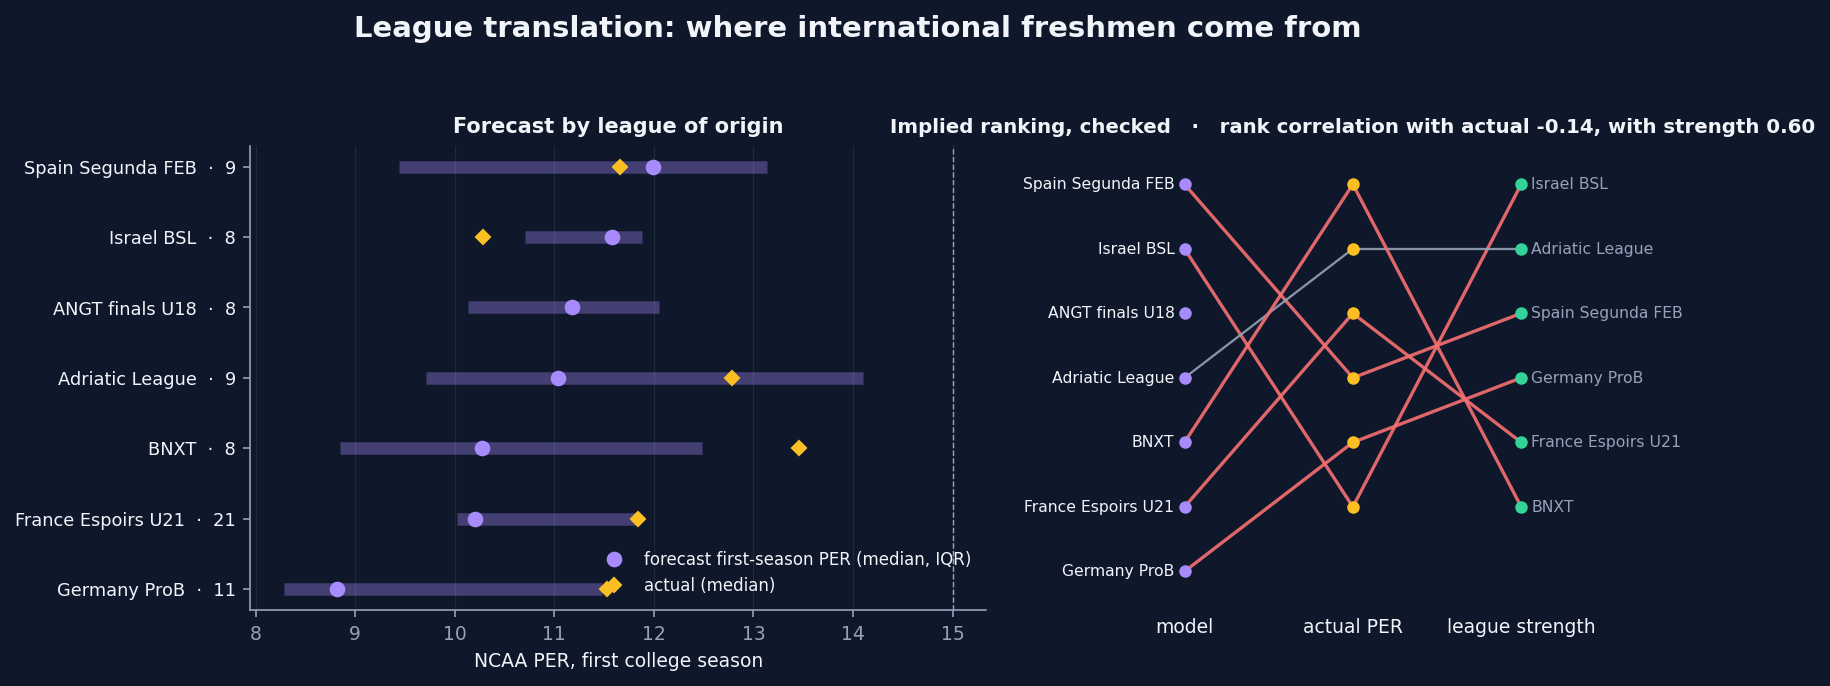
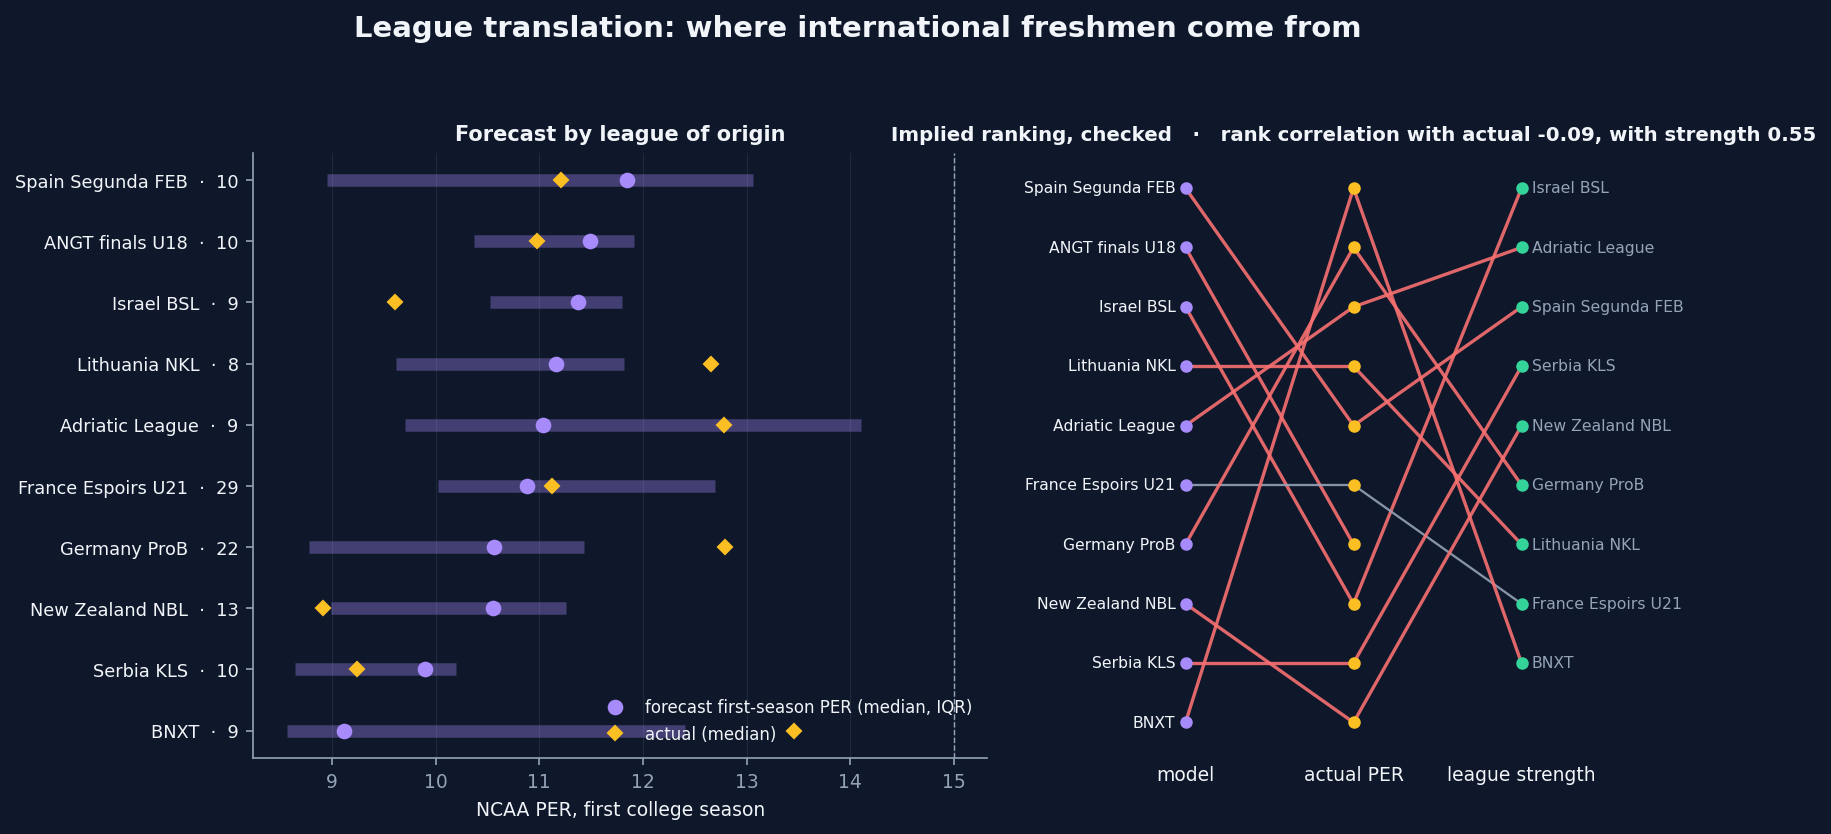
update assets

diff --git a/tests/test_capacity_options.py b/tests/test_capacity_options.py
@@ -1,0 +1,123 @@
+"""D-070: capacity and training options — width, direction FiLM, the future head, game dropout — leave the registered
+architecture unchanged by default and work when switched on."""
+import unittest
+
+import numpy as np
+import pandas as pd
+import torch
+
+from fpp.model import features as F
+from fpp.model.distributions import SeasonParameters
+from fpp.model.tower import ARCHITECTURE_DEFAULTS, ReferenceTower
+from tests.test_pool_and_arms import _pool_games
+
+
+def _batch(n_fields=39, n_static=12, k=3):
+    games = _pool_games(n_players=2, n_games=6)
+    store = F.GameStore.from_frame(games)
+    cutoff = float(store.date.max()) + 1.0
+    norm = F.Normalizer.fit(store, np.arange(len(games)), cutoff, np.zeros((2, n_static)))
+    rows = store.rows(1)
+    ch = F.build_channel(store, rows, cutoff_days=cutoff, target_days=cutoff, normalizer=norm)
+    t_v, t_m = F.time_basis(-1.0, 18.0, 19.0)
+    targets = {"games": 3, "starts": 1, "minutes": 60.0, "counts": np.zeros(13, dtype=np.int64), "overtime": 0.0, "overtime_known": True, "schedule": 5}
+    exs = []
+    for i in range(k):
+        tg = dict(targets)
+        if i == 0:
+            tg["future"], tg["future_known"] = 0.7, True
+        exs.append(F.Example(f"u{i}", "-" if i % 2 == 0 else "+", (), ch, F.Channel.empty(n_fields), np.zeros(n_static, np.float32),
+                             np.zeros(n_static, bool), np.zeros(6, np.int32), t_v, t_m, tg))
+    return store, exs, F.collate(exs)
+
+
+class CapacityTests(unittest.TestCase):
+    def test_defaults_reproduce_the_registered_parameter_count(self):
+        store, exs, batch = _batch()
+        vocab = [len(store.vocab[c]) for c in F.CATEGORICAL]
+        tower = ReferenceTower(vocab, [2] * 6, SeasonParameters())
+        self.assertEqual(tower.architecture, ARCHITECTURE_DEFAULTS)
+        n = sum(p.numel() for p in tower.parameters())
+        wide = ReferenceTower(vocab, [2] * 6, SeasonParameters(), width=64, hidden=128)
+        self.assertGreater(sum(p.numel() for p in wide.parameters()), 3 * n)
+        with torch.no_grad():
+            out = wide(batch)
+        self.assertEqual(out["rates"].shape[0], 3)
+        self.assertNotIn("future", out)
+
+    def test_direction_film_is_identity_at_init_and_future_head_outputs(self):
+        store, exs, batch = _batch()
+        vocab = [len(store.vocab[c]) for c in F.CATEGORICAL]
+        torch.manual_seed(0)
+        plain = ReferenceTower(vocab, [2] * 6, SeasonParameters())
+        torch.manual_seed(0)
+        film = ReferenceTower(vocab, [2] * 6, SeasonParameters(), direction_film=True, future_head=True)
+        # Same random init for the shared modules; FiLM starts at zero, so the heads agree before training.
+        plain_sd = plain.state_dict()
+        film.load_state_dict({**film.state_dict(), **{k: v for k, v in plain_sd.items()}}, strict=False)
+        with torch.no_grad():
+            a, b = plain(batch), film(batch)
+        torch.testing.assert_close(a["rates"], b["rates"])
+        self.assertEqual(b["future"].shape, (3,))
+        self.assertTrue(batch["future_known"][0].item() and not batch["future_known"][1].item())
+        self.assertAlmostEqual(float(batch["future"][0]), 0.7, places=6)
+        self.assertTrue(torch.isnan(batch["future"][1]))
+        # After a FiLM perturbation the two directions differ while the forward example changes too (the shift is per direction).
+        with torch.no_grad():
+            film.translator.film.weight[1, :10].fill_(0.5)
+            c = film(batch)
+        self.assertFalse(torch.allclose(a["rates"][1], c["rates"][1]))      # reconstruction example (direction +1) moved
+        torch.testing.assert_close(a["rates"][0], c["rates"][0])            # forward example unchanged
+
+    def test_drop_games_keeps_at_least_one_row_and_recomputes_evidence(self):
+        store, exs, _ = _batch()
+        rng = np.random.default_rng(1)
+        e = exs[0]
+        d = F.drop_games(e, 0.5, rng)
+        self.assertGreaterEqual(d.intl.x.shape[0], 1)
+        self.assertLessEqual(d.intl.x.shape[0], e.intl.x.shape[0])
+        self.assertAlmostEqual(float(d.intl.evidence[0]), np.log1p(d.intl.x.shape[0]), places=5)
+        self.assertEqual(float(d.intl.clocks[0, 5]), 1.0)
+        self.assertEqual(float(d.intl.clocks[1:, 5].sum()) if d.intl.x.shape[0] > 1 else 0.0, 0.0)
+        self.assertIs(F.drop_games(e, 0.0, rng), e)
+        heavy = F.drop_games(e, 0.999, rng)
+        self.assertEqual(heavy.intl.x.shape[0], 1)
+        self.assertEqual(heavy.ncaa.x.shape[0], 0)                          # an empty channel stays empty
+
+    def test_attention_pool_and_two_layer_heads(self):
+        """D-074: both options are recorded, add parameters, start harmlessly (uniform attention, heads near the
+        reference) and run on a batch with an absent channel."""
+        from fpp.model.production import RATE_NAMES
+        store, exs, batch = _batch()
+        vocab = [len(store.vocab[c]) for c in F.CATEGORICAL]
+        plain = ReferenceTower(vocab, [2] * 6, SeasonParameters())
+        tower = ReferenceTower(vocab, [2] * 6, SeasonParameters(), head_hidden=64, attention_pool=True)
+        self.assertEqual(tower.architecture["head_hidden"], 64)
+        self.assertTrue(tower.architecture["attention_pool"])
+        self.assertEqual(plain.architecture, ARCHITECTURE_DEFAULTS)
+        self.assertGreater(sum(p.numel() for p in tower.parameters()), sum(p.numel() for p in plain.parameters()))
+        self.assertTrue((tower.pool_intl.score.weight == 0).all())            # uniform attention at init
+        with torch.no_grad():
+            out = tower(batch)
+        self.assertEqual(out["rates"].shape, (3, len(RATE_NAMES)))
+        for key in ("pi_g", "alpha_m", "rates", "dispersions", "makes_alpha"):
+            self.assertTrue(torch.isfinite(out[key]).all(), key)
+        ref = SeasonParameters()
+        self.assertLess(float((out["pi_g"] - ref.participation_probability).abs().max()), 0.1)   # heads start near the reference
+        # A non-uniform score vector changes the fused channel (a uniform one would not: each game encoding is
+        # LayerNorm-ed, so its feature sum is zero for every game and the attention would stay uniform).
+        with torch.no_grad():
+            tower.pool_intl.score.weight.copy_(torch.linspace(-1.0, 1.0, tower.pool_intl.width).unsqueeze(0))
+            moved = tower(batch)
+        self.assertFalse(torch.allclose(out["rates"], moved["rates"]))
+
+    def test_lr_decay_helper(self):
+        from fpp.experiments.train import _decay_lr
+        opt = torch.optim.Adam([torch.nn.Parameter(torch.zeros(1))], lr=1e-3)
+        self.assertAlmostEqual(_decay_lr(opt, 0.5), 5e-4)
+        self.assertAlmostEqual(opt.param_groups[0]["lr"], 5e-4)
+        self.assertAlmostEqual(_decay_lr(opt, 1.0), 5e-4)
+
+
+if __name__ == "__main__":
+    unittest.main()

diff --git a/tests/test_feature_blocks.py b/tests/test_feature_blocks.py
@@ -251,6 +251,22 @@ class UnitBlockTests(unittest.TestCase):
         self.assertEqual(list(out["first_year"]), [False, True, False])                 # the 2003 returner is not a first season
         self.assertEqual(list(out["ncaa_seasons_completed"]), [2, 0, 1])
 
+    def test_career_history_normalizes_first_year_roles(self):
+        """D-074: a first D1 season in a freshman class is a freshman whatever the upstream role rule read from tracked
+        international games; later-year units and non-freshman classes keep the upstream role."""
+        from fpp.data.assemble import career_history
+        all_rosters = pd.DataFrame({"player_id": [1, 2, 2, 3, 4, 5], "season": [2027, 2026, 2027, 2027, 2027, 2027],
+                                    "team_id": [5, 6, 7, 8, 9, 10]})
+        units = pd.DataFrame({"player_id": [1, 2, 3, 4, 5], "season": [2027] * 5,
+                              "role": ["transfer_d1", "transfer_d1", "transfer_d1", "transfer_nond1", "transfer_d1"],
+                              "class": ["Fr", "Fr", "Jr", "Jr", "RS-Fr"]})
+        out = career_history(all_rosters, units)
+        self.assertEqual(list(out["first_year"]), [True, False, True, True, True])
+        self.assertEqual(list(out["role"]), ["freshman", "transfer_d1", "transfer_d1", "transfer_nond1", "freshman"])
+        self.assertEqual(list(out["role_upstream"]), ["transfer_d1", "transfer_d1", "transfer_d1", "transfer_nond1", "transfer_d1"])
+        no_role = career_history(all_rosters, units.drop(columns=["role", "class"]))
+        self.assertNotIn("role_upstream", no_role)                                      # fixtures without roles: unchanged
+
     def test_strict_mask_boundary_for_a_first_season_before_the_tables(self):
         from fpp.model.dataset import post_first_season_mask
         games = _pool_games(n_players=1, n_games=4)                                     # non-NCAA games 2021-10-01 .. 2021-12-10

diff --git a/tests/test_normalizer_convention.py b/tests/test_normalizer_convention.py
@@ -1,0 +1,34 @@
+"""D-078: a rebuilt run must use the normalization convention it was trained with. Manifests after the D-072 fix
+record it; earlier manifests are judged by the run's completion time, which is exact because no strict control was
+training across the fix."""
+import json
+import tempfile
+import unittest
+from pathlib import Path
+
+from fpp.experiments.report import NORMALIZER_FIX_TIME, normalizer_exclusion
+
+
+class NormalizerConventionTests(unittest.TestCase):
+    def test_recorded_flag_wins(self):
+        self.assertTrue(normalizer_exclusion({"config": {"normalizer_exclusion": True}}, None))
+        self.assertFalse(normalizer_exclusion({"config": {"normalizer_exclusion": False}}, None))
+
+    def test_completion_time_decides_for_older_manifests(self):
+        with tempfile.TemporaryDirectory() as d:
+            run = Path(d)
+            (run / "status.json").write_text(json.dumps({"stage": "done", "updated_at": "2026-09-29T08:33:35"}))
+            self.assertFalse(normalizer_exclusion({"config": {}}, run))            # the registered 2025-26 control
+            (run / "status.json").write_text(json.dumps({"stage": "done", "updated_at": "2026-10-01T10:20:45"}))
+            self.assertTrue(normalizer_exclusion({"config": {}}, run))             # the v11 deployment control
+            (run / "status.json").write_text(json.dumps({"stage": "done", "updated_at": NORMALIZER_FIX_TIME}))
+            self.assertTrue(normalizer_exclusion({"config": {}}, run))
+
+    def test_no_evidence_means_the_old_convention(self):
+        self.assertFalse(normalizer_exclusion({"config": {}}, None))
+        with tempfile.TemporaryDirectory() as d:
+            self.assertFalse(normalizer_exclusion({"config": {}}, Path(d)))      # no status file
+
+
+if __name__ == "__main__":
+    unittest.main()
